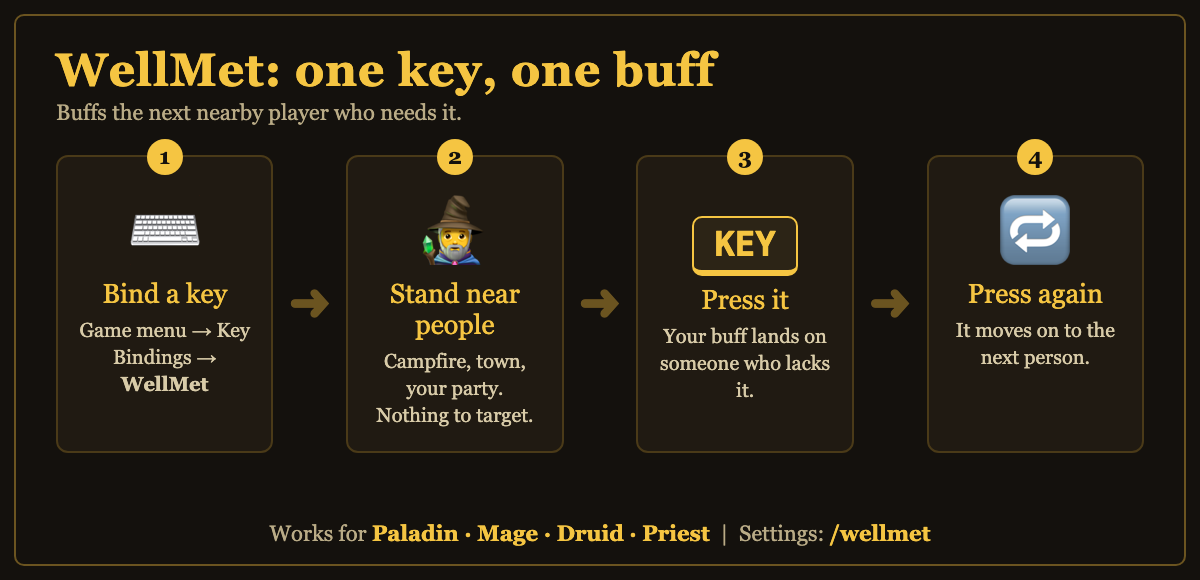
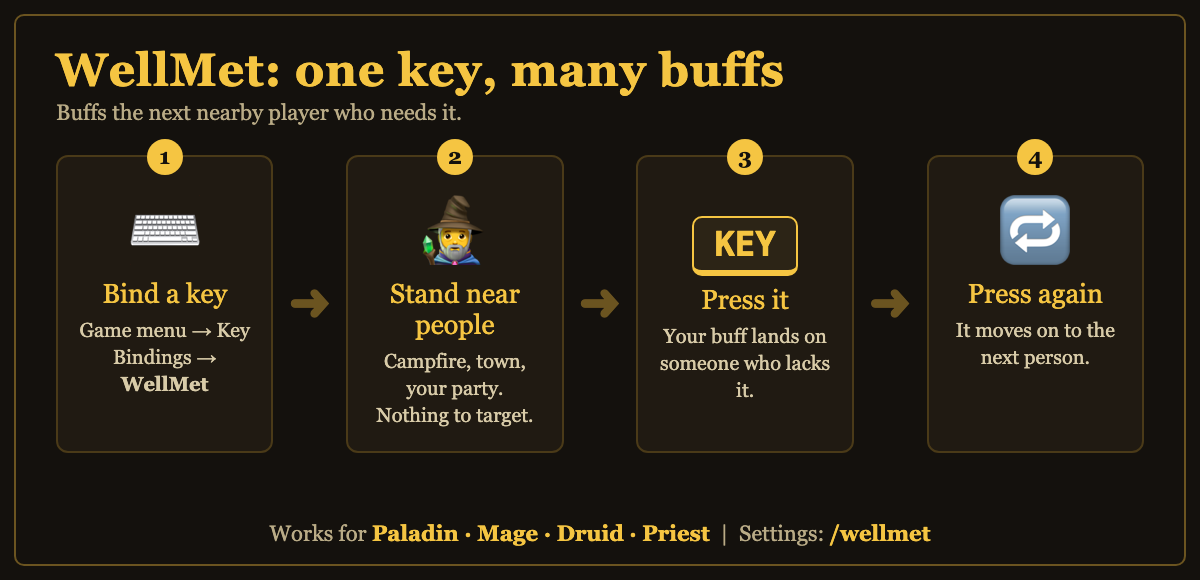
Retitle get-started infographic and description: one key, many buffs

Changed region(s): [[0.4317, 0.0621, 0.6783, 0.1552]]

diff --git a/curseforge/infographics/build.py b/curseforge/infographics/build.py
@@ -32,7 +32,7 @@ def page(body, h=760): return f"<!doctype html><meta charset=utf-8><style>{CSS}b
 
 P = {}
 P["1-get-started"] = page("""
-<h1>WellMet: one key, one buff</h1><div class=sub>Buffs the next nearby player who needs it.</div>
+<h1>WellMet: one key, many buffs</h1><div class=sub>Buffs the next nearby player who needs it.</div>
 <div class=row>
  <div class=card><div class=n>1</div><div class=big>⌨</div><div class=t>Bind a key</div><div class=d>Game menu → Key Bindings → <b>WellMet</b></div></div>
  <div class=arrow>➜</div>

diff --git a/curseforge/description.md b/curseforge/description.md
@@ -1,4 +1,4 @@
-# WellMet: one key, the next buff
+# WellMet: one key, many buffs
 
 Bind one key. Each press buffs **you**, then the **next person nearby who needs it**. Press again and it moves on. No target-clicking, no raid frames, no tracking window. It only answers "who needs what right now?" when you press.
 
